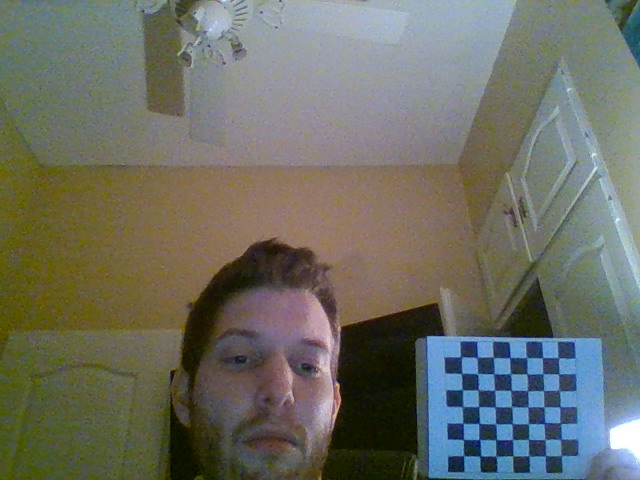
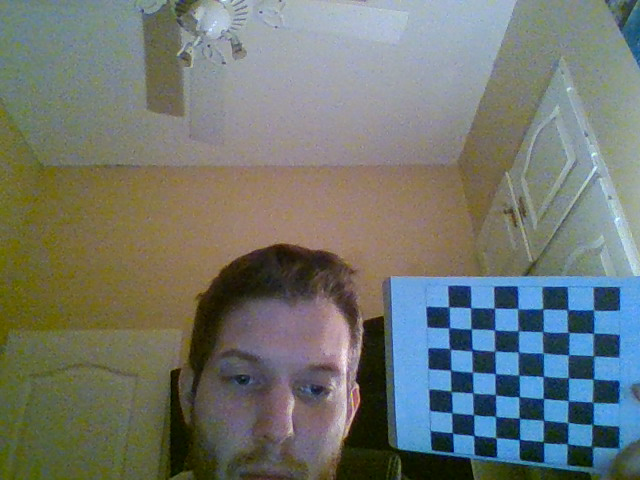
FINALLY CORRECT PICTURES.

diff --git a/src/project_robotic_vision/calibration/camera_calibration.py b/src/project_robotic_vision/calibration/camera_calibration.py
@@ -4,8 +4,16 @@ import cv2 as cv
 import numpy as np
 import yaml
 
+# Auxiliaries variables for calibrate camera function
 camera_matrix = None
 distortion_coeff = None
+
+# Internal Variables
+# Chessboard square cell size in meters.  __SQUARE_SIZE__ = 1.5 cm
+__SQUARE_SIZE__ = 0.015
+
+# Chessboard square cell size in meters.  __SQUARE_SIZE__ = 1.5 cm
+__AMOUNT_OF_IMG__ = 20
 
 
 def load_intrinsic_params(path):
@@ -27,20 +35,22 @@ def calibrate_image(camera_img):
 
     # # Get fixed camera matrix and roi
     new_camera_matrix, roi = cv.getOptimalNewCameraMatrix(camera_matrix, distortion_coeff, (w, h), 1, (w, h))
-    
+
     #  Fixed undistortion
     dst = cv.undistort(camera_img, camera_matrix, distortion_coeff, None, new_camera_matrix)
 
     return dst
 
 
-def __calibrate_camera__(images, chessboard_size: (int, int) = (6, 7)):
+def __calibrate_camera__(images, square_size: float, chessboard_size: (int, int) = (7, 6)):
     print('--- Calibration in Proccess ---')
     # termination criteria
     criteria = (cv.TERM_CRITERIA_EPS + cv.TERM_CRITERIA_MAX_ITER, 30, 0.001)
     # prepare object points, like (0,0,0), (1,0,0), (2,0,0) ....,(6,5,0)
     objp = np.zeros((chessboard_size[0] * chessboard_size[1], 3), np.float32)
-    objp[:, :2] = np.mgrid[0:7, 0:6].T.reshape(-1, 2)
+    objp[:, :2] = np.mgrid[0:chessboard_size[0], 0:chessboard_size[1]].T.reshape(-1, 2)
+    objp = objp * square_size
+
     # Arrays to store object points and image points from all the images.
     objpoints = []  # 3d point in real world space
     imgpoints = []  # 2d points in image plane.
@@ -55,7 +65,7 @@ def __calibrate_camera__(images, chessboard_size: (int, int) = (6, 7)):
             corners2 = cv.cornerSubPix(gray, corners, (11, 11), (-1, -1), criteria)
             imgpoints.append(corners)
             # Draw and display the corners
-            cv.drawChessboardCorners(img, (7, 6), corners2, ret)
+            cv.drawChessboardCorners(img, chessboard_size, corners2, ret)
             cv.imshow('Calibrate Window', img)
             cv.waitKey(500)
 
@@ -203,7 +213,7 @@ if __name__ == '__main__':
 
         elif cv.waitKey(0) == ord('c'):
             images = __load_images_from_folder__('caps')
-            __calibrate_camera__(images)
+            __calibrate_camera__(images, __SQUARE_SIZE__)
 
         elif cv.waitKey(0) == ord('u'):
             __show_calibrate_results__()
